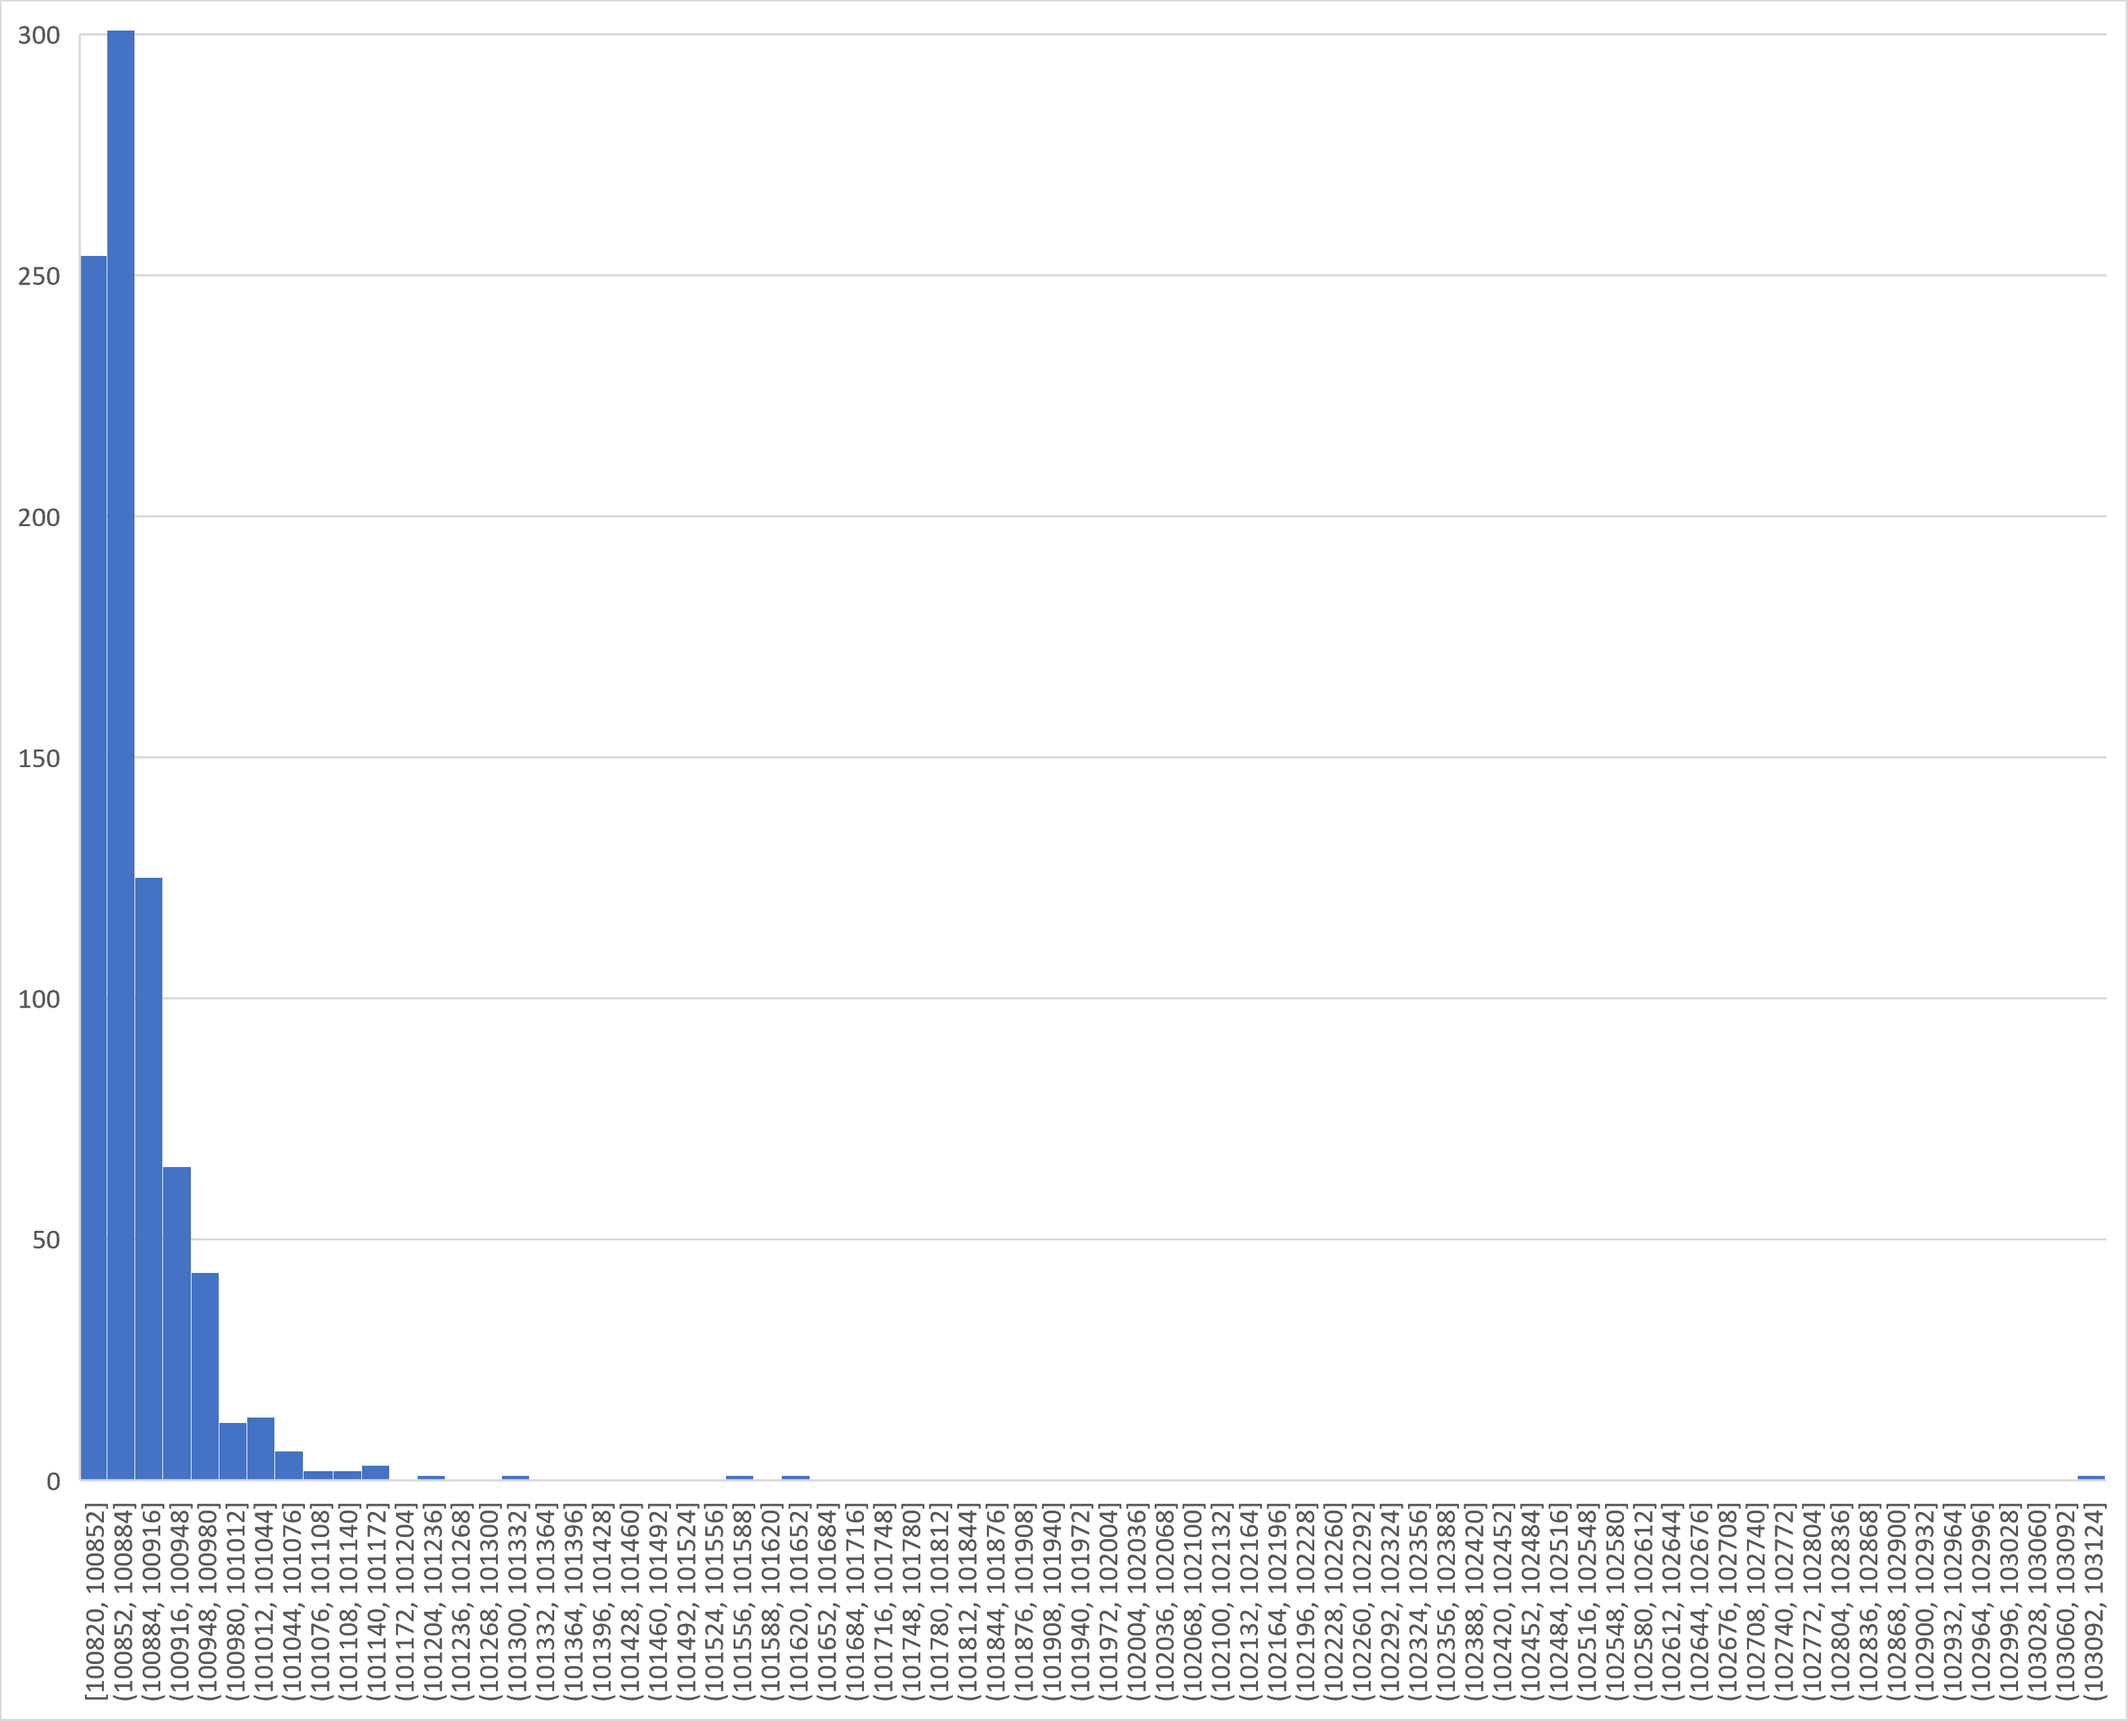
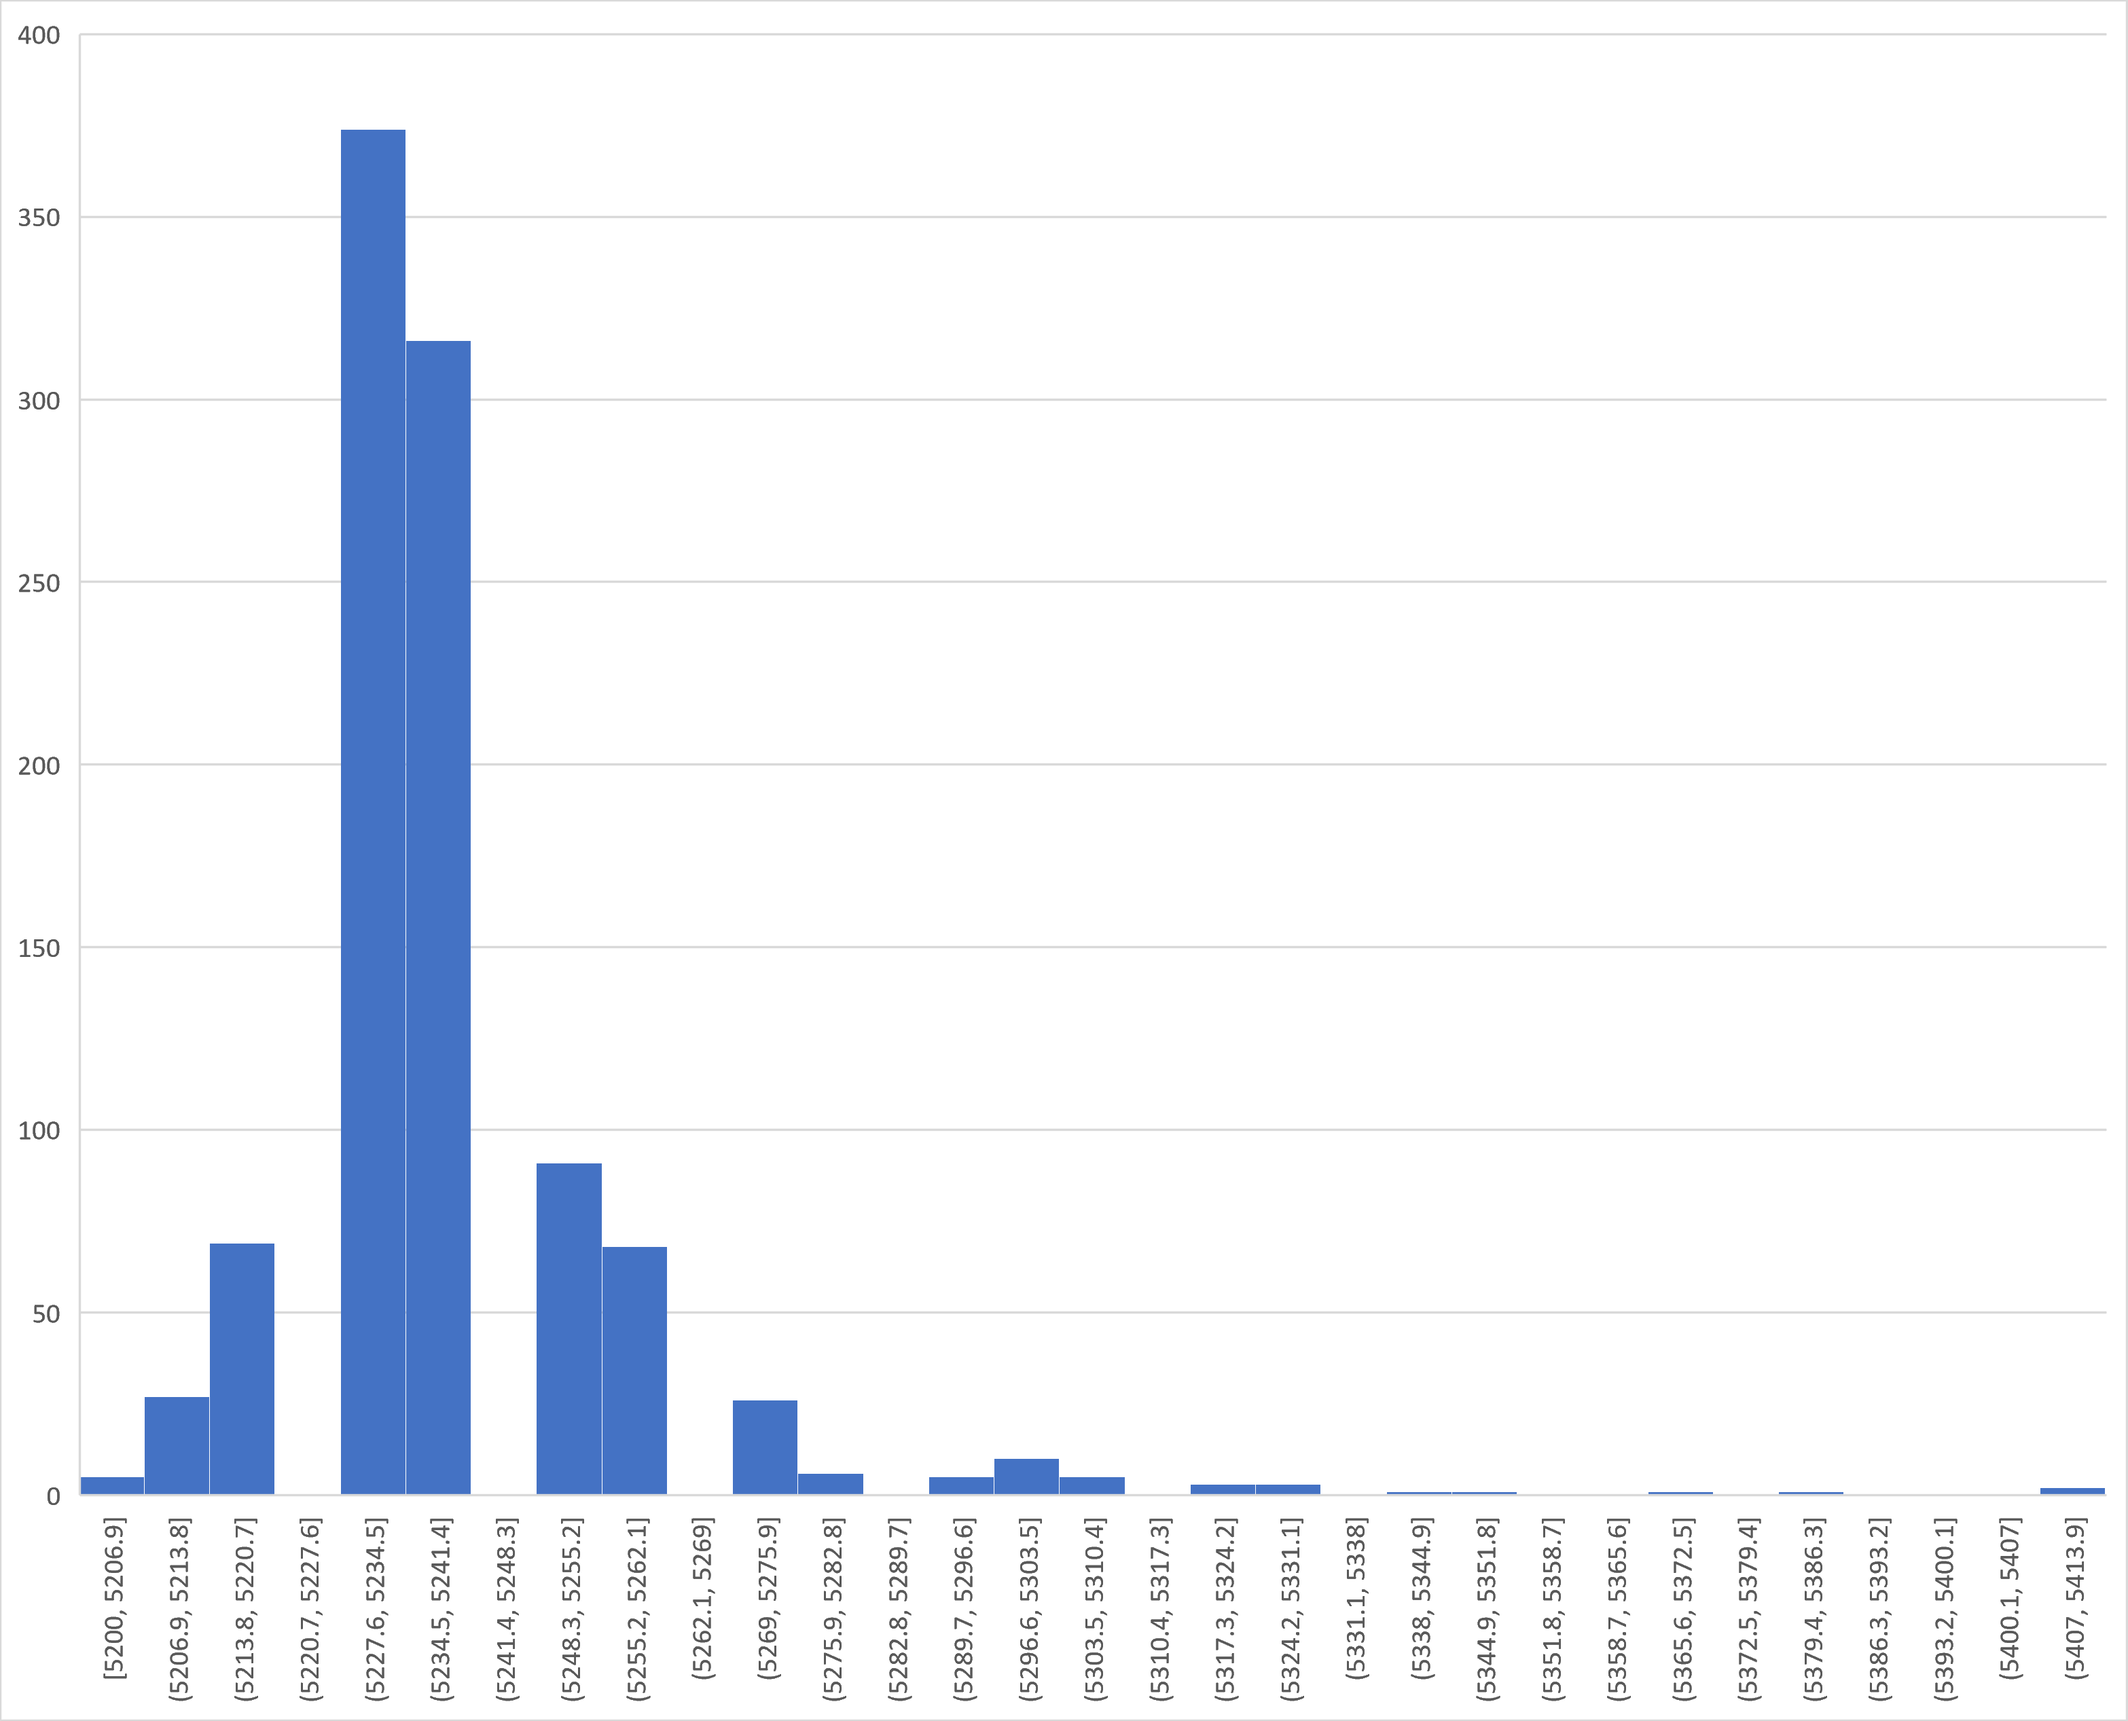
Update on Overleaf.

Changed region(s): [[0.0, 0.0, 1.0, 1.0]]

diff --git a/Project4KernelSpaceEncoderDriver/4.tex b/Project4KernelSpaceEncoderDriver/4.tex
@@ -8,7 +8,7 @@
 \usepackage{hyperref}
 \usepackage{siunitx}
 \usepackage{tabularx}
-
+\usepackage{float}
 \usepackage{xcolor}
 \usepackage{listings}
 
@@ -74,64 +74,73 @@ The header pins were soldered onto the Raspberry Pi Zero W2 and a voltmeter used
 \section{Part 2}
 The four different methods for interfacing with the GPIO pins were tested.
 \subsection{Test Setup}
-A RIGOL DG1022 function generator was hooked up to pin 17 and set to output a square wave with amplitude 3 volts and frequency 1kHz. A Rhode\&Schwartz RBT2004 oscilloscope was used to probe the input and output pins on different channels. The oscilloscope was then set to measure the time difference between rising edges.
+A RIGOL DG1022 function generator was hooked up to the input pin and set to output a square wave with amplitude 3 volts and frequency 1kHz. A Rhode\&Schwartz RBT2004 oscilloscope was used to probe the input and output pins on different channels. The oscilloscope was then set to measure the time difference between rising edges.
 
 With each method a screenshot of the oscilloscope was taken and the CPU load was read by running top in another terminal window.
 
-\subsection{Using sysfs from a shell script}
+\newpage
+\subsection{Results}
 
+\begin{table}[H]
+\begin{tabular}{llll}
+              & Mean delay & StdDev & CPU usage      \\
+Shell script  & 3000 \mu s      & 1680 \mu s  & 19\%           \\
+Read loop     & 8.5 \mu s    & 2.2 \mu s & 100\%          \\
+Polling       & 147 \mu s     & 24   \mu s  & 0.3\%          \\
+Kernel Module & 3.9 \mu s       & 0.48 \mu s  & Not detectable
+\end{tabular}
+\caption{}
+\label{tab:my-table}
+\end{table}
 \begin{figure}[H]
     \centering
     \includegraphics[width=0.75\textwidth]{Project4KernelSpaceEncoderDriver/part2_shell_mirror.PNG}
-    \caption{Response time of a shell script utilizing sysfs to mirror a pin}
+    \caption{Response time of a shell script utilizing sysfs to mirror a pin. CPU usage:19\%}
     \label{fig:shell}
 \end{figure}
 
 \begin{figure}[H]
     \centering
-    \includegraphics[width=0.75\textwidth]{Project4KernelSpaceEncoderDriver/part2_shell_mirror.PNG}
-    \caption{Response time of a shell script utilizing sysfs to mirror a pin}
-    \label{fig:shell}
+    \includegraphics[width=0.75\textwidth]{Project4KernelSpaceEncoderDriver/part2_2_read.PNG}
+    \caption{Response of a c program reading from sysfs as fast as possible. CPU usage: 100\%}
+    \label{fig:read}
 \end{figure}
 
 \begin{figure}[H]
     \centering
-    \includegraphics[width=0.75\textwidth]{Project4KernelSpaceEncoderDriver/part2_shell_mirror.PNG}
-    \caption{Response time of a shell script utilizing sysfs to mirror a pin}
-    \label{fig:shell}
+    \includegraphics[width=0.75\textwidth]{Project4KernelSpaceEncoderDriver/Part2_3_poll.PNG}
+    \caption{Response time of c program that uses polling and sysfs to detect changes to input pin. CPU usage: 0.3\%}
+    \label{fig:poll}
 \end{figure}
 
 \begin{figure}[H]
     \centering
-    \includegraphics[width=0.75\textwidth]{Project4KernelSpaceEncoderDriver/part2_shell_mirror.PNG}
-    \caption{Response time of a shell script utilizing sysfs to mirror a pin}
-    \label{fig:shell}
+    \includegraphics[width=0.75\textwidth]{Project4KernelSpaceEncoderDriver/part2_4_kernel.PNG}
+    \caption{Response time of Linux Kernel Module that uses interrupts to detect changes to input pin. CPU usage: undetectable}
+    \label{fig:kernel}
 \end{figure}
-
-
-
-The CPU usage of the bash script was around 19\%.
-
-\subsection{Using sysfs from a C/C++ application}
-
-The CPU usage of the program was 100\%
-
-\subsection{Using sysfs and poll() from a C/C++ application}
-
-The CPU usage was 0.3\%
-
-\subsection{A kernel module using interrupts}
 
 
 
 
 
 \subsection{Discussion}
-The minimum response time needed is ?????? microseconds (MAYBE QUOTE PREVIOUS REPORT?) therefore something something
+To count encoder pulses the Read Loop and Kernel Module methods would suffice however the read loop uses up an entire core of the CPU while the Kernel Module has no detectable affect on CPU usage. It might be interesting to implement the same behaviour in a c program using libgpiod.
 
 \section{Part 3}
 
-\begin{figure}[h!]
+Implement the encoder counter in a kernel module, using interrupts.  Add a user-space application that reads the current counter value.
+
+To test, attach the motor driver PWM input to the PWM output on pin 18 (see L4.5), attach the motor driver direction control pins (AIN1 & AIN2) to two digital output pins, and port the control loop from the previous project into a C++ application that uses your encoder driver.  You are not required to port the state behaviour.   For documentation, you can read a reference speed from the command line on program start and print the actual speed at the control rate. 
+
+Evaluate the implementation.  How stable is the control rate?  Do you need to compensate for irregularities by using measured time in the integrator computation?
+
+ 
+
+
+We printed the realtime of about 1000 runs of update and graphed both a histogram and a scatterplot to look at the jitter. On figure \ref{fig:scatterplotDelta} it may be seen that the time it takes varies from about 5.2ms to about .
+
+\begin{figure}[h!t]
     \centering
     \includegraphics[width=0.75\textwidth]{Project4KernelSpaceEncoderDriver/histogram_timebetweenruns.png}
     \caption{histogram plot of delta time between runs of the PI controller}
@@ -143,17 +152,14 @@ The minimum response time needed is ?????? microseconds (MAYBE QUOTE PREVIOUS RE
     \caption{scatter plot of delta time between runs of the PI controller}
     \label{fig:scatterplotDelta}
 \end{figure}
+\url{https://youtu.be/eprVd00UXQw}
 \newpage
 \section*{Appendix}
 \appendix
 
 \newpage
 \section{Code}\label{appendix:code}
+A video of the control loop in action can be found at \url{}
 
-\lstinputlisting[caption=main program used to produce the step response]{Project2SpeedController/src/main.cpp}
-
-\lstinputlisting[caption=timer\_msec.cpp]{Project1RotaryEncoder/src/encoder_simple.cpp}
-
-\lstinputlisting[caption=main.cpp]{Project1RotaryEncoder/src/main.cpp}
-
+The code used can be found on github at \url{}
 \end{document}
